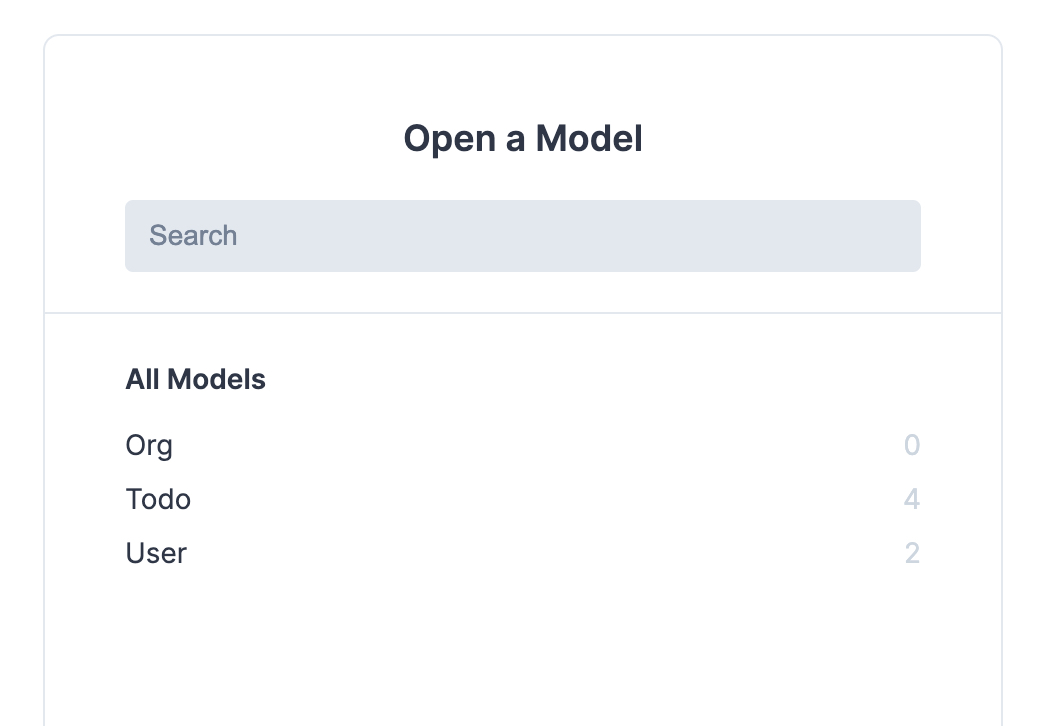
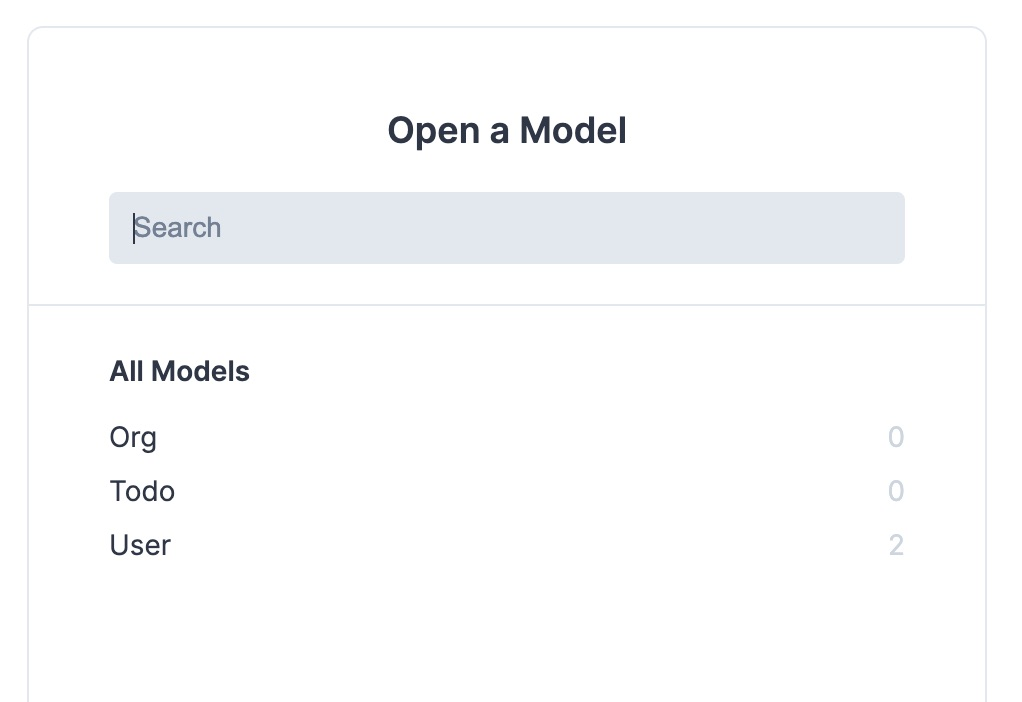
Text updates and image

diff --git a/_source/_posts/2023-07-31-workflows-workshop.md b/_source/_posts/2023-07-31-workflows-workshop.md
@@ -216,20 +216,20 @@ npm run init-db
 ```
 
 The users are 
-- User: trinity@whiterabbit.fake, password: Zion
-- User: bob@tables.fake, password: correct horse battery staple
+- User: _trinity@whiterabbit.fake_, password: _Zion_
+- User: _bob@tables.fake_, password: _correct horse battery staple_
 
 
 
 ### Adding an organziation to the application
 
-In a later step, you will enhance the application with a new API service to get all the todo items.
-
-The new API retrieves all the todo items belonging to an organization. 
+In a later step, you will enhance the application with a new API service to get all the todo items. The new API retrieves all the todo items belonging to an organization. 
 
 In this step, you will set up an organization in the application database. 
 
-To view the database, run the following command from the application folder:
+To launch the database viewer: 
+
+1. In a new terminal tab or window, run the following command from the application folder:
 
 ```
 npx prisma studio
@@ -240,11 +240,11 @@ You will see the following message
 Prisma Studio is up on http://localhost:5555
 ```
 
-In a new browser window, go to http://localhost:5555 to view the database. The screenshot below shows the application has four todo items and two users. 
+In a new browser window, go to http://localhost:5555 to view the database. The screenshot below shows the application database. The database has two users. 
 
 {% img blog/workflows-workshop/Workflows_prisma_db.jpg alt:"Application database" %}{: .center-image }
 
-To create a new organiziation: 
+To create a new organiziation in the application database: 
 
 1. Click on the **Org** model
 2. Click **Add record** to add a new record
@@ -262,7 +262,7 @@ You are ready to start the application and create the todo items.
 
 ### Running the application
 
-To start the Todo application, run the following command:
+To start the Todo application, run the following command from the application folder: 
 
 ```
 npm start
@@ -271,9 +271,9 @@ npm start
 The create serveral todo items:
 
 1. In a browser, go to http://localhost:3000
-2. Sign in to the application. You can use one of the following users:
-    - User: trinity@whiterabbit.fake, password: Zion
-    - User: bob@tables.fake, password: correct horse battery staple
+2. Sign in to the application. Uuse one of the following users:
+    - User: _trinity@whiterabbit.fake_, password: _Zion_
+    - User: _bob@tables.fake_, password: _correct horse battery staple_
 3. Enter several todo items
 
 {% img blog/workflows-workshop/Workflows_todoapp.jpg alt:"Todo application with several items" %}{: .center-image }
@@ -290,16 +290,13 @@ The automation you will create later in this workshop will use this API service 
 To add the API service: 
 
 1. In the application folder, open the file `apps/api/src/main.ts` in your favorite editor
-2. Go to line 6 add the following import:
-
-
+2. Go to line 7, add the following code:
 ```
 import passportBearer from 'passport-http-bearer';
 ```
-
-3. Go to line 52 to add the following code: 
-
+3. Go to line 58, add the following code: 
 ```
+// New API endpoint start
 const BearerStrategy = passportBearer.Strategy;
 
 passport.use(new BearerStrategy(
@@ -324,9 +321,10 @@ app.get('/api/org/todos',
     });
     res.json({todos});
 });
+// API endpoint end
 ```
 
-The above code snippet adds support for authentication and the API endpoint to get all the todo items. 
+The above code adds support for authentication and the API endpoint to get all the todo items. 
 
 4. Save all the changes. 
 
@@ -347,7 +345,7 @@ In a new terminal window (or tab), run the following command to start the tunnel
 npx localtunnel --port 3333
 ```
 
-The command output will be: 
+The command output will be a random URL in the following format:  
 
 ```
 your url is: https://some-name.loca.lt
@@ -376,37 +374,58 @@ In this section, you will build a flow that does the following:
 ### Calling the API service
 
 In this step, you will add a card to call the application API endpoint to retrieve all the todo items.
- 
+
+#### Creating a connection to the API service
+
+In this step, you will create a connection to the API service. 
 
 1. Return to the flow you created
 2. Click **Add function** > find the **API Connector (HTTP)** section > select the **Get** card
-3. For the **URL** field, enter the tunnel URL from step **Opening application API with a tunnel** and append the 
+1. Click **+ New Connection** to create a connection to the API
+1. For **Connection Nickname**, enter **Todo API Connector**
+1. For **Auth Type**, select **Custom**
+    * For **Header Name**, enter **Authorization**
+    * For **Header Value**, enter **Bearer 131313**
+1. Click **Create** to create a connection
+
+#### Setting the service URL
+
+In this step, you will set the service URL. 
+
+1. For the **URL** field, enter the tunnel URL from step **Opening application API with a tunnel** and append the 
 `/api/org/todos` endpoint. 
-    - For example `https://curvy-clowns-show.loca.lt/api/org/todos`
-    - **Note:** the tunnel URL will change whenever you restart the tunnel
-4. For the **Headers** field, enter the authorization token: 
+
+For example: 
 
 ```
-{
-   "Authorization": "Bearer 131313"
-}
+https://curvy-clowns-show.loca.lt/api/org/todos
 ```
+
+
+**Note:** 
+> The tunnel URL will change whenever you restart the tunnel
+
 
 Click the **Save** button to save changes
 
 
 {% img blog/workflows-workshop/Workflows_Get_card.jpg alt:"The API Connector - Get card" %}{: .center-image }
 
-You can test the **Get** card. 
+#### Testing the service
+
+You can test the **Get** card:
 
 1. Click the ▶ button at the bottom of the card
-2. Press Test to test the card and the API service
-3. Expand the Body field to see the tasks from the application
+2. Press **Test** to test the card and the API service
+3. Expand the **Body** field to see the tasks from the application
 
 
 {% img blog/workflows-workshop/Workflows_Get_card_testing.jpg alt:"Testing the Get card" %}{: .center-image }
 
-You can also test the flow. Click the **Close** button to go back to flow editing. Click the **Test** button to test the flow. 
+You can also test the flow: 
+
+1. Click the **Close** button to go back to flow editing
+1. Click the **Test** button to test the flow. 
 
 The **Flow History** page shows data passed from card to card for each card flow. 
 
